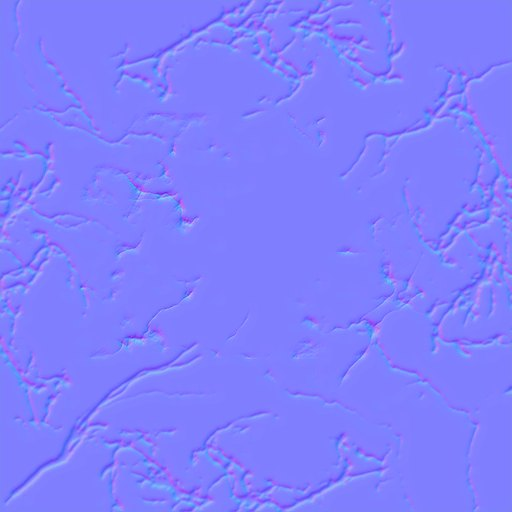
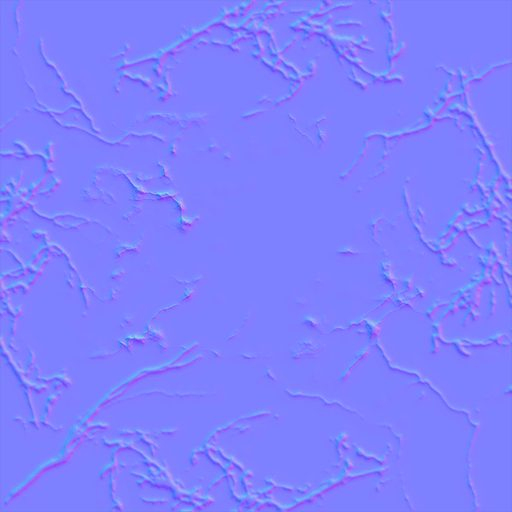
human2: restore CC3 hair cards and UV-correct skin maps

diff --git a/public/human2/engine.js b/public/human2/engine.js
@@ -4,13 +4,14 @@ import { PointerLockControls } from "three/addons/controls/PointerLockControls.j
 import { RoomEnvironment } from "three/addons/environments/RoomEnvironment.js";
 
 
-const ASSET = "/human2/assets/mira.glb?v=3";
+const ASSET = "/human2/assets/mira.glb?v=4";
 const TEXROOT = "/human2/assets/tex/";
 const MAP_FILE = {
   Std_Skin_Head: ["head.jpg", "head_n.jpg"],
   Std_Skin_Body: ["body.jpg", "body_n.jpg"],
   Std_Skin_Arm: ["arm.jpg", "arm_n.jpg"],
   Std_Skin_Leg: ["leg.jpg", "leg_n.jpg"],
+  Std_Nails: ["nails.jpg", null],
   Std_Eye_L: ["eye_l.jpg", "eye_l_n.jpg"],
   Std_Eye_R: ["eye_r.jpg", "eye_r_n.jpg"],
   Std_Eyelash: ["lash.png", null],
@@ -141,7 +142,7 @@ const texCache = {};
 function loadMap(file, srgb) {
   if (!file) return null;
   if (texCache[file]) return texCache[file];
-  const t = texLoader.load(TEXROOT + file, undefined, undefined, (err) => console.warn("tex fail", file, err));
+  const t = texLoader.load(TEXROOT + file + "?v=4", undefined, undefined, (err) => console.warn("tex fail", file, err));
   t.colorSpace = srgb ? THREE.SRGBColorSpace : THREE.LinearSRGBColorSpace;
   t.flipY = false;
   t.wrapS = t.wrapT = THREE.ClampToEdgeWrapping;
@@ -151,10 +152,30 @@ function loadMap(file, srgb) {
 
 function isHairMat(m, o) {
   const n = ((m && m.name) || "") + " " + (o.name || "");
-  return /transp|eyelash|hair/i.test(n);
+  return /transp|hair/i.test(n) && !/eyelash/i.test(n);
+}
+function isLashMat(m, o) {
+  const n = ((m && m.name) || "") + " " + (o.name || "");
+  return /eyelash/i.test(n);
+}
+function mapSpec(m, o) {
+  const name = (m && m.name) || "";
+  if (MAP_FILE[name]) return MAP_FILE[name];
+  const n = name + " " + ((o && o.name) || "");
+  if (/eyelash/i.test(n)) return MAP_FILE.Std_Eyelash;
+  if (/transp|hair/i.test(n)) return MAP_FILE.Default_Material_Transparency;
+  if (/Skin_Head/i.test(n)) return MAP_FILE.Std_Skin_Head;
+  if (/Skin_Body/i.test(n)) return MAP_FILE.Std_Skin_Body;
+  if (/Skin_Arm/i.test(n)) return MAP_FILE.Std_Skin_Arm;
+  if (/Skin_Leg/i.test(n)) return MAP_FILE.Std_Skin_Leg;
+  if (/Nails/i.test(n)) return MAP_FILE.Std_Nails;
+  if (/Eye_L/i.test(n) && !/cornea/i.test(n)) return MAP_FILE.Std_Eye_L;
+  if (/Eye_R/i.test(n) && !/cornea/i.test(n)) return MAP_FILE.Std_Eye_R;
+  return null;
 }
 
 function applySkin(root) {
+  const hairMeshes = [];
   root.traverse((o) => {
     if (o.isBone) {
       bones[o.name] = o;
@@ -169,41 +190,50 @@ function applySkin(root) {
     for (const m of mats) {
       if (!m) continue;
       const hair = isHairMat(m, o);
+      const lash = isLashMat(m, o);
+      const spec = mapSpec(m, o);
+      if (spec) {
+        m.map = loadMap(spec[0], true);
+        if (spec[1]) {
+          m.normalMap = loadMap(spec[1], false);
+          m.normalScale.set(1.15, 1.15);
+        }
+      }
       if (m.map) {
         m.map.colorSpace = THREE.SRGBColorSpace;
         m.map.flipY = false;
+        m.map.anisotropy = 8;
         m.map.needsUpdate = true;
-      } else {
-        const spec = MAP_FILE[m.name];
-        if (spec) {
-          m.map = loadMap(spec[0], true);
-          m.needsUpdate = true;
-        }
       }
       if (m.normalMap) {
         m.normalMap.colorSpace = THREE.LinearSRGBColorSpace;
         m.normalMap.flipY = false;
-        m.normalScale.set(1.1, 1.1);
-      } else {
-        const spec = MAP_FILE[m.name];
-        if (spec && spec[1]) {
-          m.normalMap = loadMap(spec[1], false);
-          m.normalScale.set(1.1, 1.1);
-        }
+        m.normalMap.needsUpdate = true;
       }
       m.metalness = 0;
       m.color.set(0xffffff);
-      m.roughness = hair ? 0.45 : (/eye/i.test(m.name || "") ? 0.2 : 0.5);
-      m.side = hair ? THREE.DoubleSide : THREE.FrontSide;
+      m.roughness = hair ? 0.38 : (lash ? 0.55 : (/eye/i.test(m.name || "") ? 0.18 : 0.48));
+      m.side = hair || lash ? THREE.DoubleSide : THREE.FrontSide;
       m.transparent = false;
       m.depthWrite = true;
-      if (hair) m.alphaTest = QUEST ? 0.5 : 0.42;
+      m.alphaTest = 0;
+      if (hair) m.alphaTest = QUEST ? 0.28 : 0.22;
+      if (lash) m.alphaTest = 0.35;
       m.needsUpdate = true;
+      if (hair) hairMeshes.push(o);
     }
     if (o.morphTargetDictionary) morphMeshes.push(o);
     o.frustumCulled = false;
     o.castShadow = false;
   });
+  const head = bones.Head;
+  if (head) {
+    for (const h of hairMeshes) {
+      if (h.parent === head) continue;
+      if (h.isSkinnedMesh) continue;
+      head.attach(h);
+    }
+  }
 }
 
 function restoreBind() {
@@ -303,10 +333,10 @@ function tickExpr(dt) {
 }
 
 const soft = [
-  { name: "L_Breast", x: 0, z: 0, vx: 0, vz: 0, stiff: 24, damp: 7.0, max: 0.32, grav: 0.5 },
-  { name: "R_Breast", x: 0, z: 0, vx: 0, vz: 0, stiff: 24, damp: 7.0, max: 0.32, grav: 0.5 },
-  { name: "L_Glute", x: 0, z: 0, vx: 0, vz: 0, stiff: 32, damp: 9.2, max: 0.2, grav: 0.22 },
-  { name: "R_Glute", x: 0, z: 0, vx: 0, vz: 0, stiff: 32, damp: 9.2, max: 0.2, grav: 0.22 },
+  { name: "L_Breast", x: 0, z: 0, vx: 0, vz: 0, stiff: 18, damp: 5.6, max: 0.4, grav: 0.62 },
+  { name: "R_Breast", x: 0, z: 0, vx: 0, vz: 0, stiff: 18, damp: 5.6, max: 0.4, grav: 0.62 },
+  { name: "L_Glute", x: 0, z: 0, vx: 0, vz: 0, stiff: 26, damp: 8.0, max: 0.24, grav: 0.28 },
+  { name: "R_Glute", x: 0, z: 0, vx: 0, vz: 0, stiff: 26, damp: 8.0, max: 0.24, grav: 0.28 },
 ];
 const prevHip = new THREE.Vector3();
 let hipReady = false;

diff --git a/public/human2/index.html b/public/human2/index.html
@@ -51,11 +51,11 @@
       <div id="panel">
         <div class="tag">PASS 2</div>
         <h1>HUMAN 2</h1>
-        <p>Region skin maps, hanging arms, finger curl, shape sliders, pool noodle. Home network only.</p>
+        <p>CC3 skin + hair cards, hanging arms, flesh springs, shape sliders, pool noodle. Home network only.</p>
         <button type="button" id="enter">ENTER VR / AR</button>
         <button type="button" class="ghost" id="desk">Desktop look</button>
       </div>
     </div>
-    <script type="module" src="/human2/engine.js?v=3"></script>
+    <script type="module" src="/human2/engine.js?v=4"></script>
   </body>
 </html>
